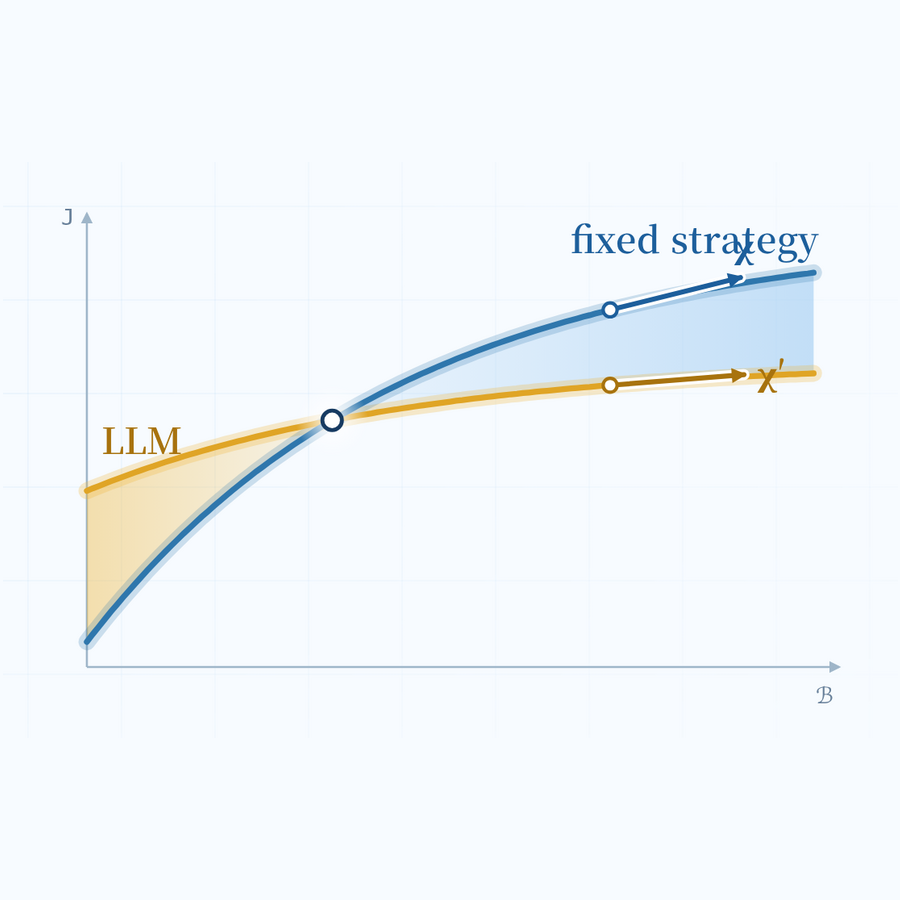
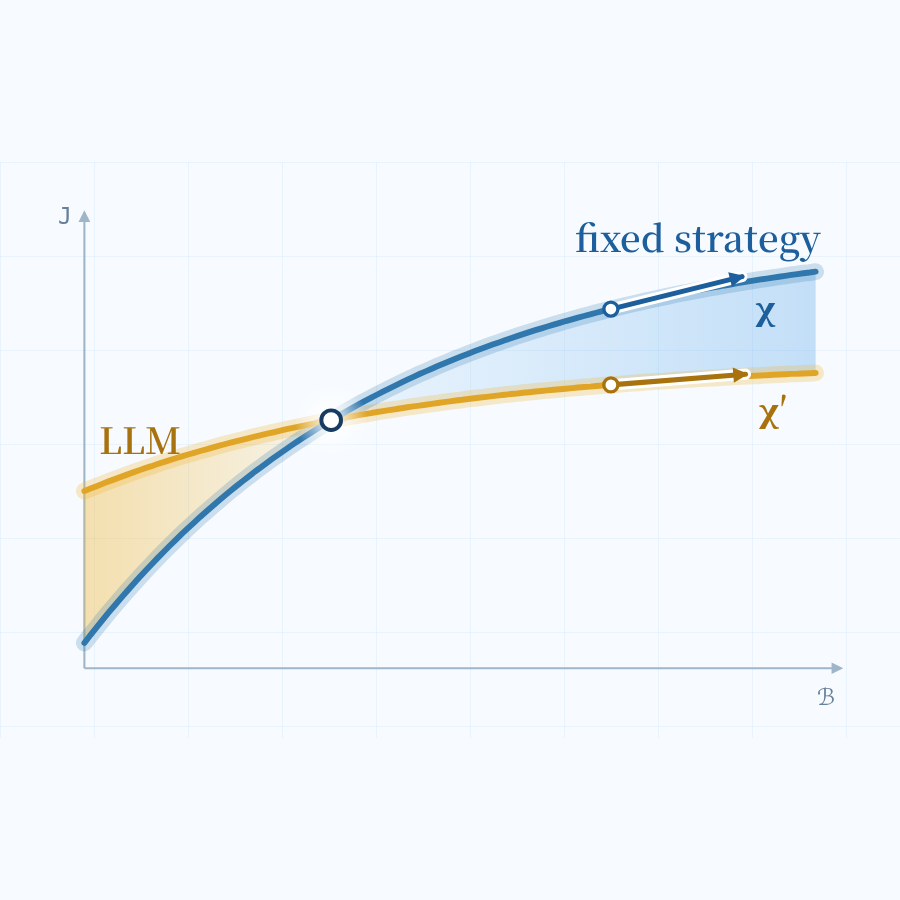
Separate hero susceptibility labels from titles and curves

diff --git a/public/susceptibility/index.html b/public/susceptibility/index.html
@@ -77,8 +77,8 @@
 <circle cx="235.5" cy="183.6" r="26" fill="url(#hHalo)"/>
 <circle cx="235.5" cy="183.6" r="7" fill="#fff" stroke="#173b62" stroke-width="2.8"/>
 <line x1="434.4" y1="104.6" x2="527.6" y2="81.5" stroke="#fff" stroke-width="8" stroke-linecap="round"/><line x1="434.4" y1="104.6" x2="527.6" y2="81.5" stroke="#1d5f9c" stroke-width="3.6" stroke-linecap="round" marker-end="url(#hS)"/><circle cx="434.4" cy="104.6" r="5" fill="#fff" stroke="#1d5f9c" stroke-width="2.4"/><line x1="434.4" y1="158.5" x2="530.1" y2="150.9" stroke="#fff" stroke-width="8" stroke-linecap="round"/><line x1="434.4" y1="158.5" x2="530.1" y2="150.9" stroke="#a8730e" stroke-width="3.6" stroke-linecap="round" marker-end="url(#hL)"/><circle cx="434.4" cy="158.5" r="5" fill="#fff" stroke="#a8730e" stroke-width="2.4"/>
-<text x="523.6" y="67.5" class="h-chi h-blue">χ</text>
-<text x="540.1" y="158.9" class="h-chi h-gold">χ′</text>
+<text x="537.6" y="112.5" class="h-chi h-blue">χ</text>
+<text x="540.1" y="184.9" class="h-chi h-gold">χ′</text>
 <text x="70.4" y="207.8" class="h-name h-gold">LLM</text>
 <text x="584.0" y="64.0" class="h-name h-blue" text-anchor="end"><tspan class="zh">固定策略</tspan><tspan class="en">fixed strategy</tspan></text>
 <text x="594.0" y="386" class="h-axis" text-anchor="end">ℬ</text>

diff --git a/public/susceptibility/tools/make_hero.py b/public/susceptibility/tools/make_hero.py
@@ -72,8 +72,8 @@ svg = f'''<svg class="hero-svg" viewBox="0 0 640 410" role="img" aria-labelledby
 <circle cx="{xcp:.1f}" cy="{ycp:.1f}" r="26" fill="url(#hHalo)"/>
 <circle cx="{xcp:.1f}" cy="{ycp:.1f}" r="7" fill="#fff" stroke="#173b62" stroke-width="2.8"/>
 {tS}{tL}
-<text x="{eS[0] - 4:.1f}" y="{eS[1] - 14:.1f}" class="h-chi h-blue">χ</text>
-<text x="{eL[0] + 10:.1f}" y="{eL[1] + 8:.1f}" class="h-chi h-gold">χ′</text>
+<text x="{eS[0] + 10:.1f}" y="{eS[1] + 31:.1f}" class="h-chi h-blue">χ</text>
+<text x="{eL[0] + 10:.1f}" y="{eL[1] + 34:.1f}" class="h-chi h-gold">χ′</text>
 <text x="{X(0.02):.1f}" y="{Y(JL(0.02)) - 22:.1f}" class="h-name h-gold">LLM</text>
 <text x="{X(1) + 4:.1f}" y="{Y(JS(1)) - 14:.1f}" class="h-name h-blue" text-anchor="end"><tspan class="zh">固定策略</tspan><tspan class="en">fixed strategy</tspan></text>
 <text x="{X1 + 14:.1f}" y="{Y0 + 26}" class="h-axis" text-anchor="end">ℬ</text>
